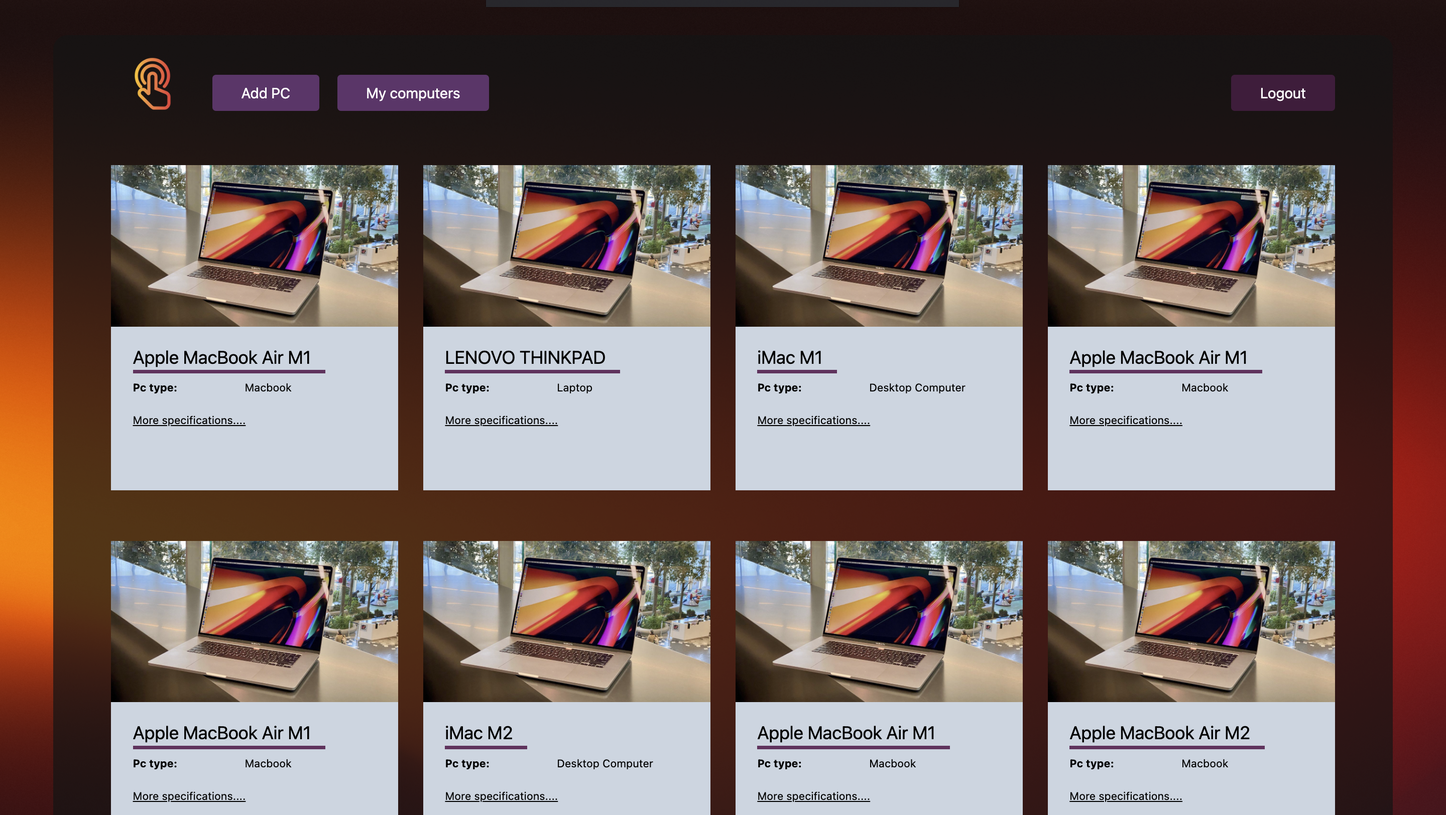
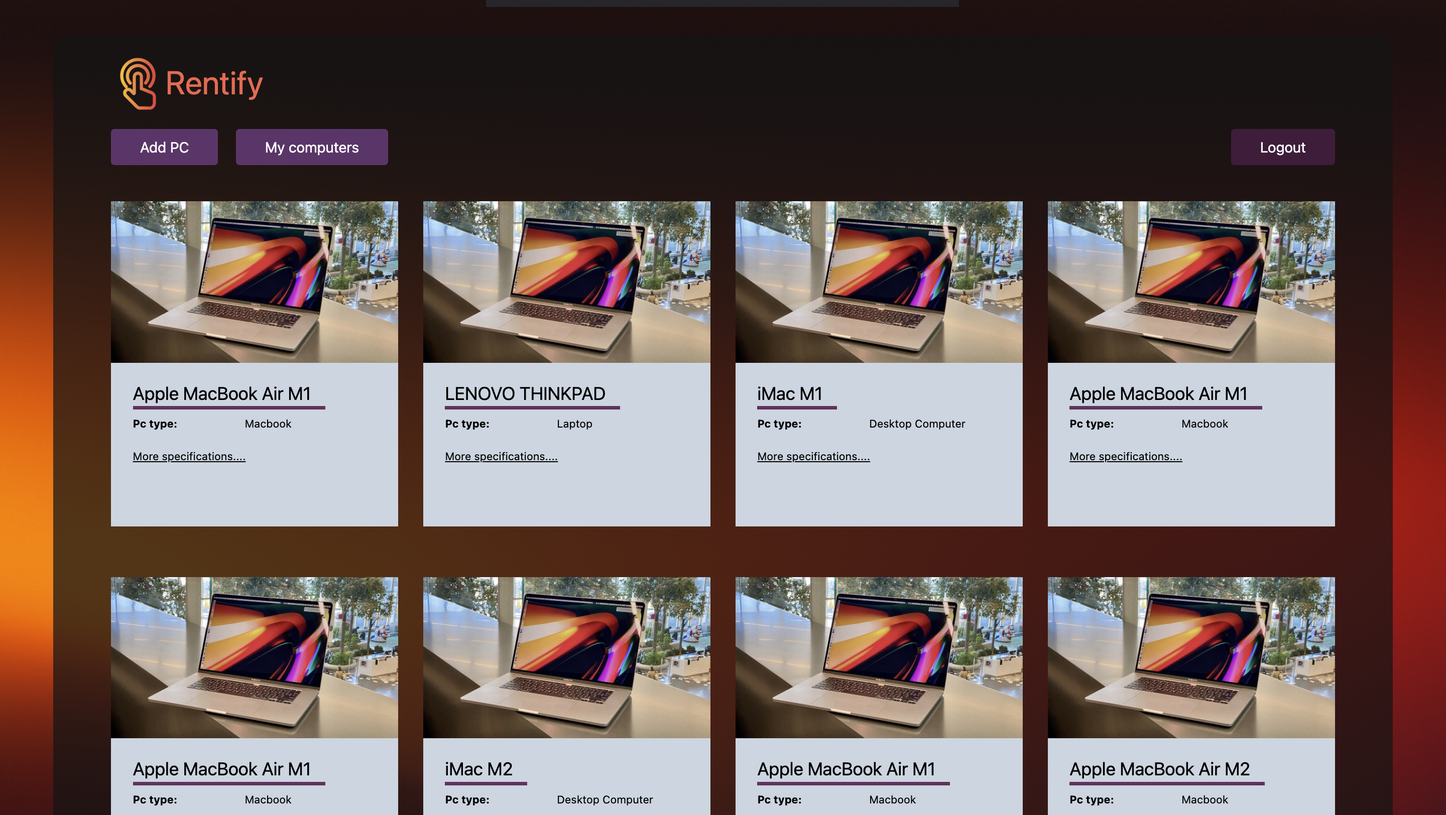
readme

diff --git a/frontend/src/Main/Main.jsx b/frontend/src/Main/Main.jsx
@@ -9,7 +9,6 @@ import * as PropTypes from "prop-types";
 function AuthButtons() {
 	return (
 	<div className="mt-3 flex flex-col md:flex-row md:justify-start gap-4 whitespace-nowrap">
-		<img className="w-[60px] md:mt-0" src={clickImage} alt="click" />
 		<div className='md:mt-0'>
 			<Link
 				to="/registration"
@@ -58,34 +57,37 @@ export default function Main() {
 
 	return (
 		<div className="main-bg flex justify-center overflow-y-scroll pt-10 pb-16 px-5 min-h-screen">
-			<div className="container md:w-[80%] lg:w-[85%] xl:w-[95%] bg-[#131313b6] min-h-[700px] rounded-2xl p-6">
-				<div className="mx-10 mb-4 md:mb-6 lg:mb-8 xl:mb-10 flex items-center flex-col md:flex-row md:justify-between gap-4">
-				{!isLoggedIn && <AuthButtons />}
-				{isLoggedIn && (
-				<div className="flex flex-col md:flex-row items-center whitespace-nowrap gap-5">
-					<img className="w-[60px] md:mt-0 ml-4 mr-4 mb-5" src={clickImage} alt="click" />
-					<Link
-						to="/add-new-pc"
-						className="block md:inline-block bg-[#60346b] hover:bg-purple-800 rounded text-white px-8 py-2 text-center overflow-hidden"
-						style={{ maxWidth: "200px" }}
-						>Add PC
-					</Link>
-					<Link
-						to="/my-computers"
-						className="block md:inline-block bg-[#60346b] hover:bg-purple-800 rounded text-white px-8 py-2 text-center overflow-hidden"
-						style={{ maxWidth: "200px" }}
-						>My computers
-					</Link>
+			<div className="container md:w-[80%] lg:w-[85%] xl:w-[95%] bg-[#131313b6] min-h-[700px] rounded-2xl p-6 overflow-hidden">
+				<div className='flex align-center md:ms-10 s-1'> 
+					<img className="w-[60px] md:mt-0 mb-5" src={clickImage} alt="click" />
+					<p className='text-[#f2634a] text-4xl mt-2'>Rentify</p>
 				</div>
-				)}
-				{isLoggedIn && (
-					<button
-						className="block md:inline-block  bg-[#431b3d] hover:bg-[#4e2548] rounded text-white px-8 py-2 text-center overflow-hidden"
-						style={{ maxWidth: "200px" }}
-						onClick={logOut}
-						>Logout
-					</button>
-				)}
+				<div className="mx-10 mb-4 md:mb-6 lg:mb-8 xl:mb-10 flex items-center flex-col md:flex-row md:justify-between gap-4">
+					{!isLoggedIn && <AuthButtons />}
+					{isLoggedIn && (
+					<div className="flex flex-col md:flex-row items-center whitespace-nowrap gap-5">
+						<Link
+							to="/add-new-pc"
+							className="block md:inline-block bg-[#60346b] hover:bg-purple-800 rounded text-white px-8 py-2 text-center overflow-hidden"
+							style={{ maxWidth: "200px" }}
+							>Add PC
+						</Link>
+						<Link
+							to="/my-computers"
+							className="block md:inline-block bg-[#60346b] hover:bg-purple-800 rounded text-white px-8 py-2 text-center overflow-hidden"
+							style={{ maxWidth: "200px" }}
+							>My computers
+						</Link>
+					</div>
+					)}
+					{isLoggedIn && (
+						<button
+							className="block md:inline-block  bg-[#431b3d] hover:bg-[#4e2548] rounded text-white px-8 py-2 text-center overflow-hidden"
+							style={{ maxWidth: "200px" }}
+							onClick={logOut}
+							>Logout
+						</button>
+					)}
 				</div>
 				<div className="grid grid-cols-1 sm:grid-cols-2 md:grid-cols-3 lg:grid-cols-4 gap-7 mt-8 mx-10">
 					{pcList.map((pc) => (

diff --git a/frontend/src/pc/PcPage.jsx b/frontend/src/pc/PcPage.jsx
@@ -76,10 +76,13 @@ export default function PcPage() {
     else return (
         <div className="main-bg flex justify-center overflow-y-scroll pt-10 pb-16 px-5 min-h-screen">
             <div className="container md:w-[80%] lg:w-[85%] xl:w-[95%] bg-[#131313b6] min-h-[700px] rounded-2xl p-6">
+            <div className='flex align-center md:ms-10 s-1'> 
+				<img className="w-[60px] md:mt-0 mb-5" src={clickImage} alt="click" />
+				<p className='text-[#f2634a] text-4xl mt-2'>Rentify</p>
+			</div>
                 <div className="mx-10 mb-4 md:mb-6 lg:mb-8 xl:mb-10 flex items-center flex-col md:flex-row md:justify-between gap-4">
                     {isLoggedIn && (
                         <div className="flex flex-col md:flex-row items-center whitespace-nowrap">
-                            <img className="w-[60px] md:mt-0 ml-4 mr-4 mb-5" src={clickImage} alt="click" />
                             <Link
                                 to="/"
                                 className="block md:inline-block bg-[#60346b] hover:bg-purple-800 rounded text-white px-8 py-2 text-center overflow-hidden"

diff --git a/frontend/src/my-computers/MyComputers.jsx b/frontend/src/my-computers/MyComputers.jsx
@@ -85,10 +85,13 @@ export default function MyComputers() {
 	return (
 	<div className="main-bg flex justify-center overflow-y-scroll pt-10 pb-16 px-5 min-h-screen">
 		<div className="container md:w-[80%] lg:w-[85%] xl:w-[95%] bg-[#131313b6] min-h-[700px] rounded-2xl p-6 overflow-hidden">
+			<div className='flex align-center md:ms-10 s-1'> 
+				<img className="w-[60px] md:mt-0 mb-5" src={clickImage} alt="click" />
+				<p className='text-[#f2634a] text-4xl mt-2'>Rentify</p>
+			</div>
 			<div className="mx-10 mb-2 flex items-center flex-col md:flex-row md:justify-between gap-4">
 				{isLoggedIn && (
 				<div className="flex flex-col md:flex-row items-center whitespace-nowrap gap-5">
-					<img className="w-[60px] md:mt-0 ml-4 mr-4 mb-5" src={clickImage} alt="click" />
 					<Link
 						to="/"
 						className="block md:inline-block bg-[#60346b] hover:bg-purple-800 rounded text-white px-8 py-2 text-center overflow-hidden"

diff --git a/frontend/src/PcPost.jsx b/frontend/src/PcPost.jsx
@@ -1,4 +1,5 @@
-import placeholder from '../src/assets/placeholder.jpg'; 
+// import placeholder from '../src/assets/placeholder.jpg'; 
+import placeholder from '../src/assets/macbook.jpg'; 
 
 export default function PcPost({pc}) {
 	console.log(pc);
